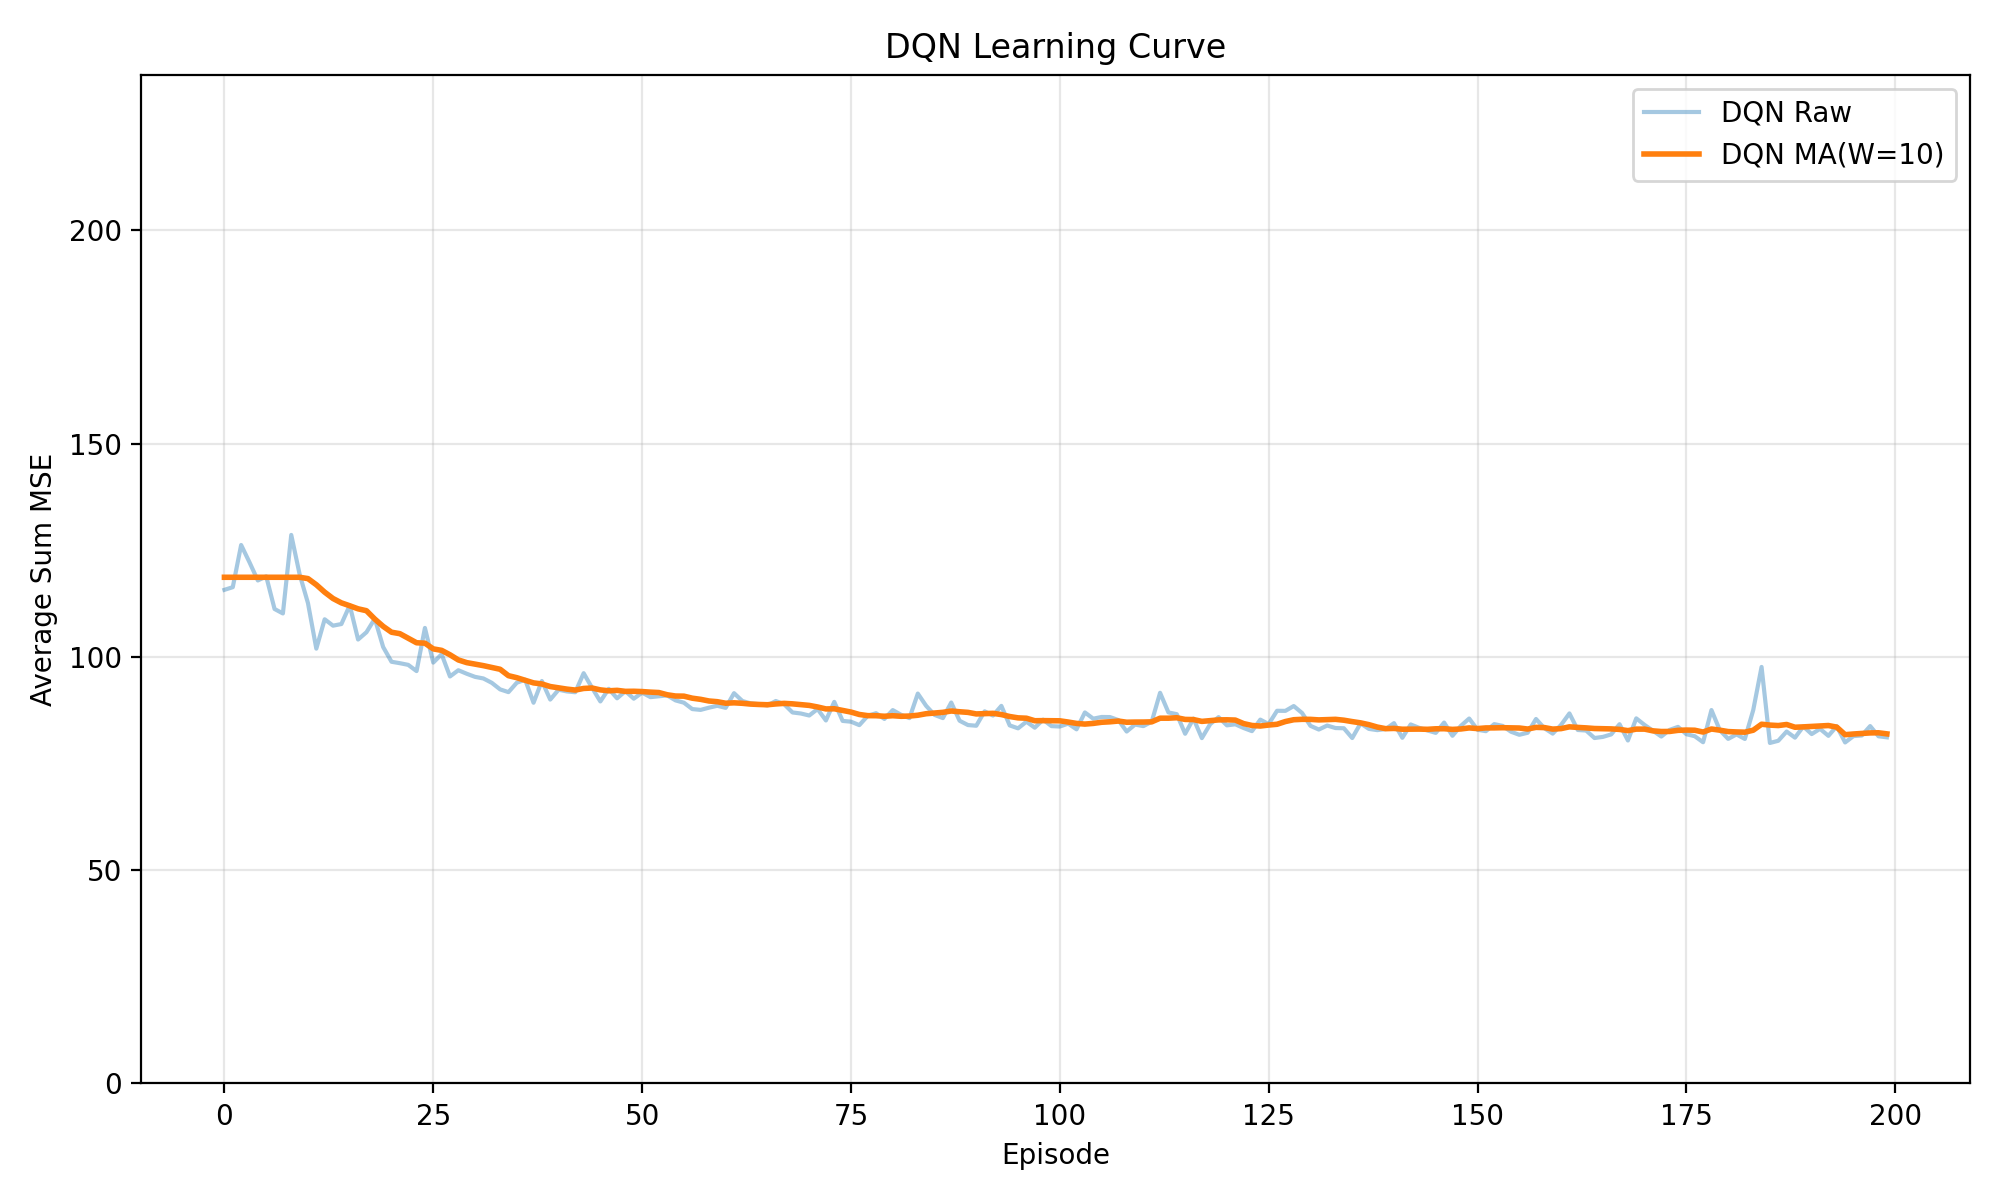
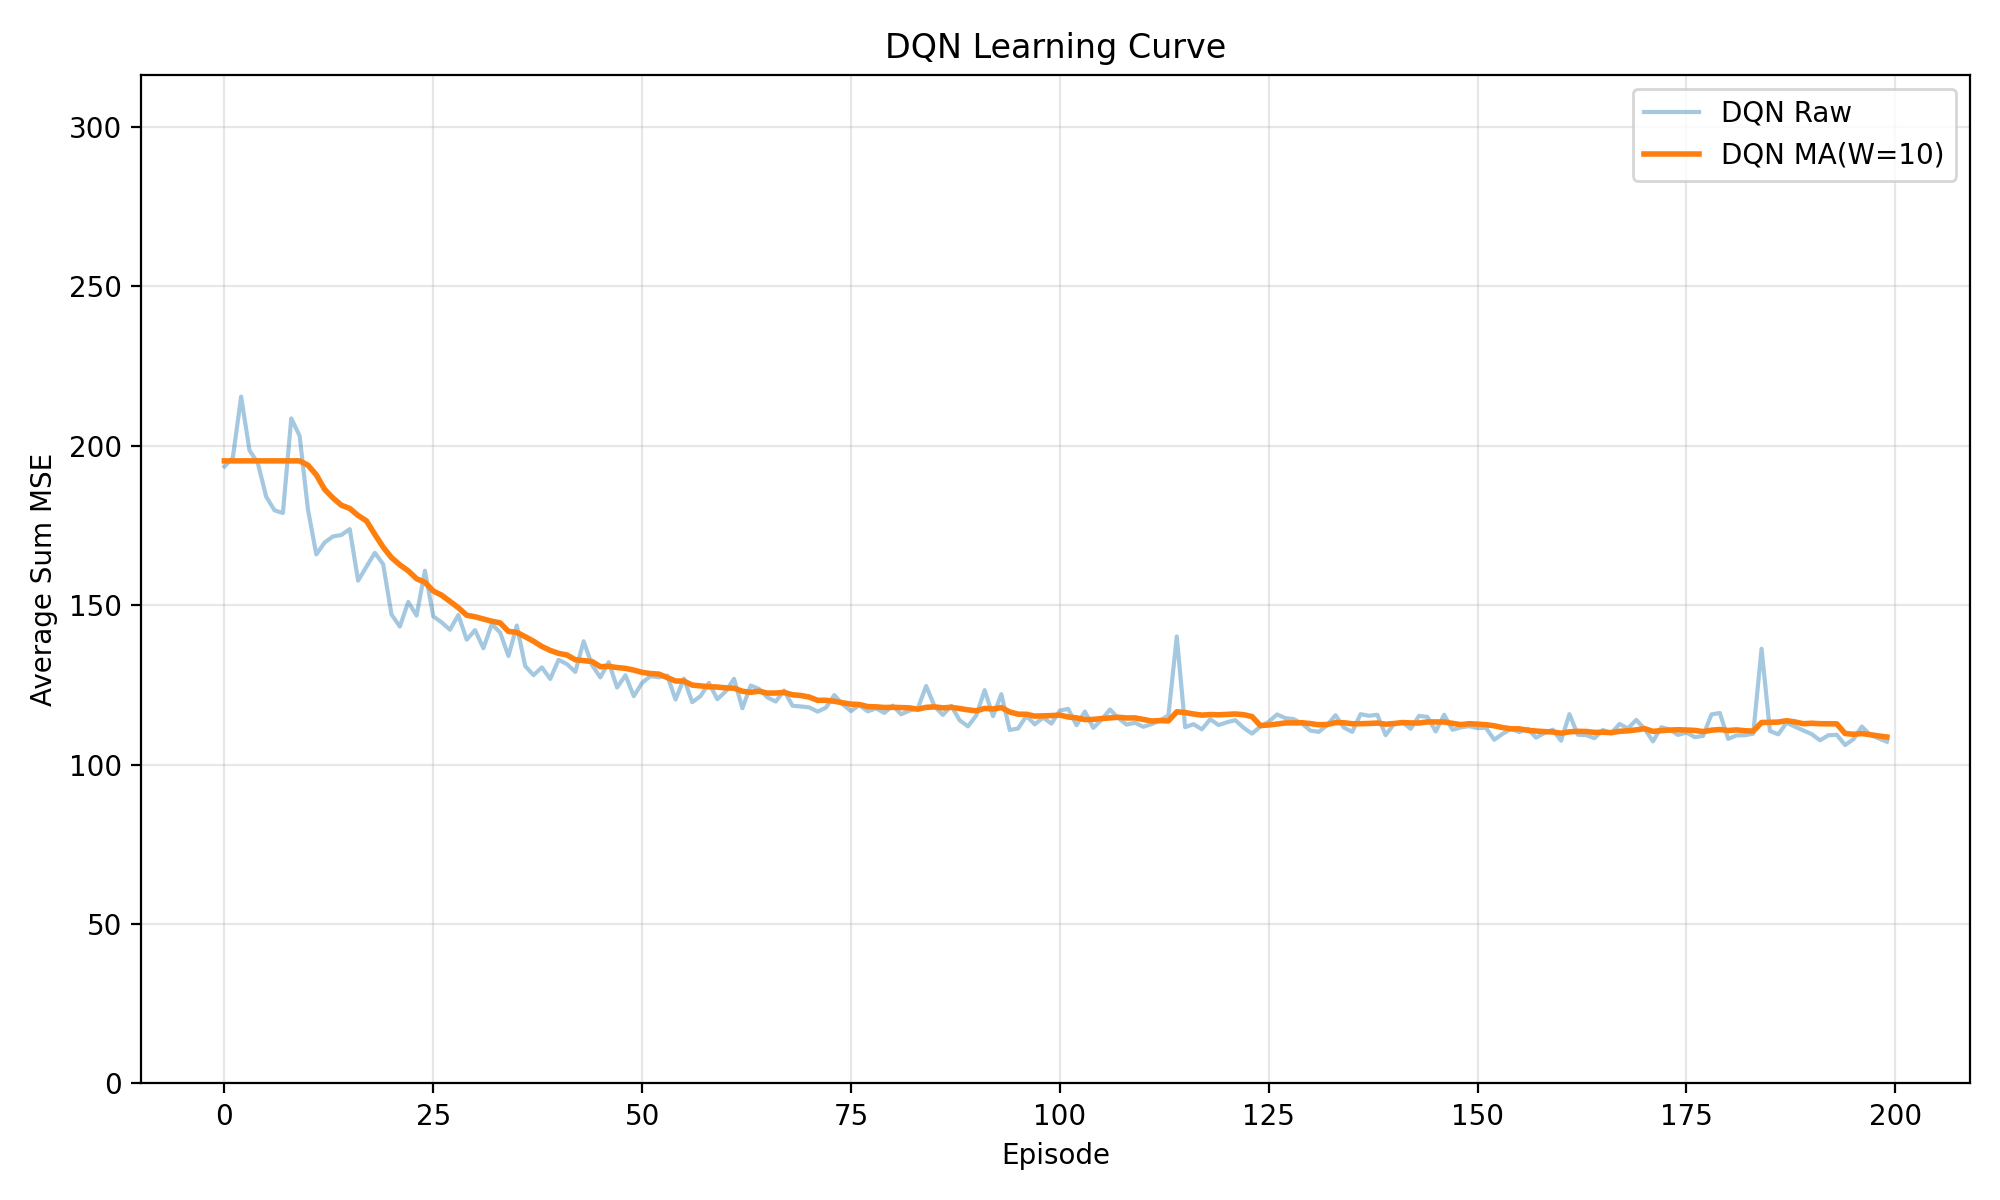
2026.4.21.2

diff --git a/config.py b/config.py
@@ -46,7 +46,7 @@ EPISODE_LENGTH = 500   # 每个 episode 的时长 T
 MAX_AOI = 30           # AoI 上限（用于控制状态爆炸）
 # 总 Tr(P) 截断系数（按传感器数量线性放大）
 # 规则: total_mse_cap = N * TRACE_P_CAP_PER_SENSOR
-TRACE_P_CAP_PER_SENSOR = 200.0
+TRACE_P_CAP_PER_SENSOR = 300.0
 
 # Rayleigh 衰落尺度参数范围（每个 sensor-channel 对独立采样一个固定 scale）
 RAYLEIGH_SCALE_MIN = 0.5
@@ -54,7 +54,7 @@ RAYLEIGH_SCALE_MAX = 2.0
 
 # A 矩阵谱半径限制
 MIN_SPECTRAL_RADIUS = 1.0
-MAX_SPECTRAL_RADIUS = 1.3
+MAX_SPECTRAL_RADIUS = 1.4
 
 # -----------------------------
 # 可复现性

diff --git a/env.py b/env.py
@@ -530,4 +530,7 @@ if __name__ == "__main__":
     env = SemanticSchedulingEnv(seed=22)
     state = env.reset()
     print("state shape:", state.shape)
-    print("num_actions:", env.num_actions)
+    print("channel_bins:", env.channel_bins)
+    print("channel_scales:", env.channel_scales)
+    print("channel_loss:", env.channel_loss)
+    print("channel_state_probs:", env.channel_state_probs)
